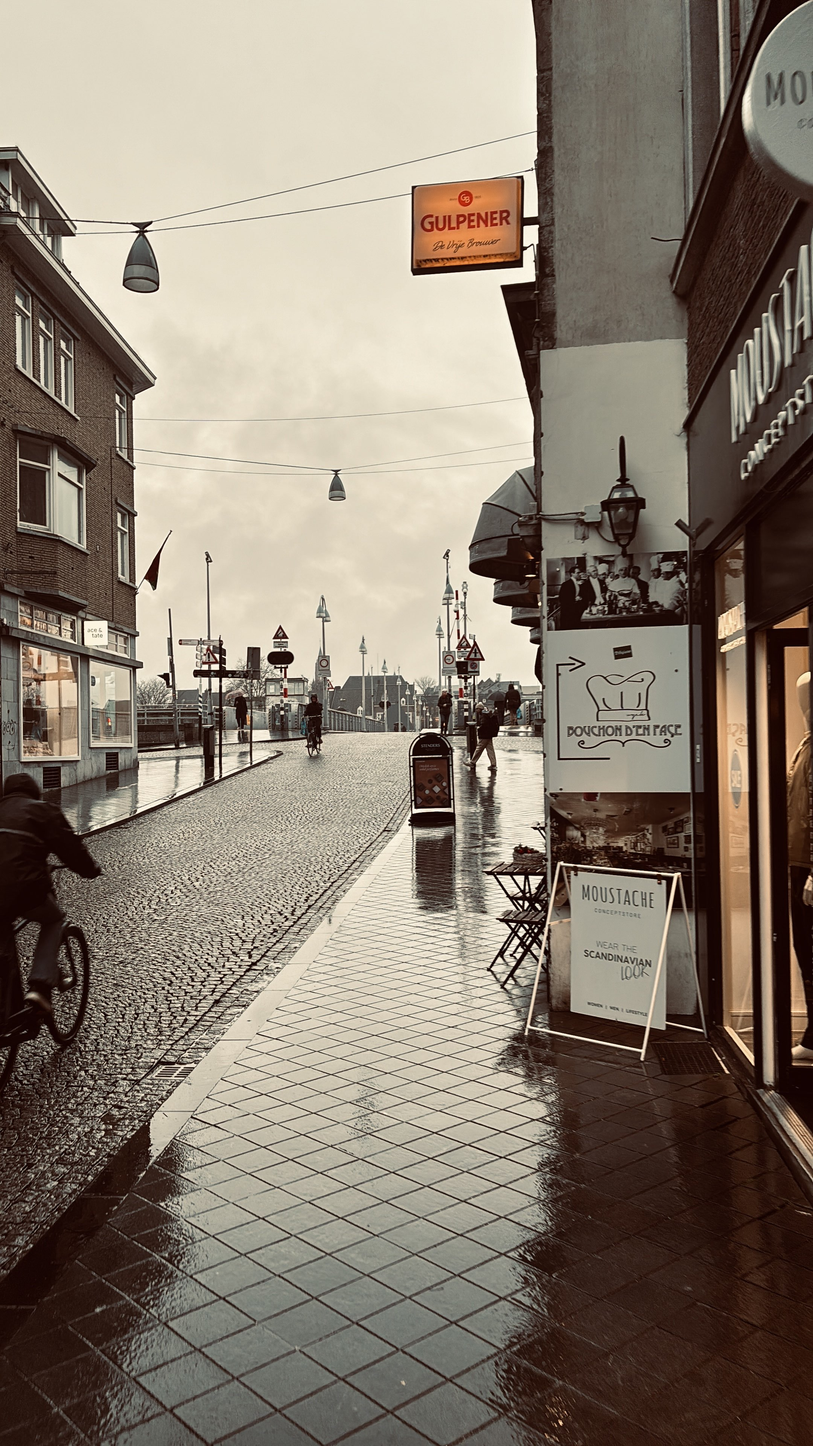
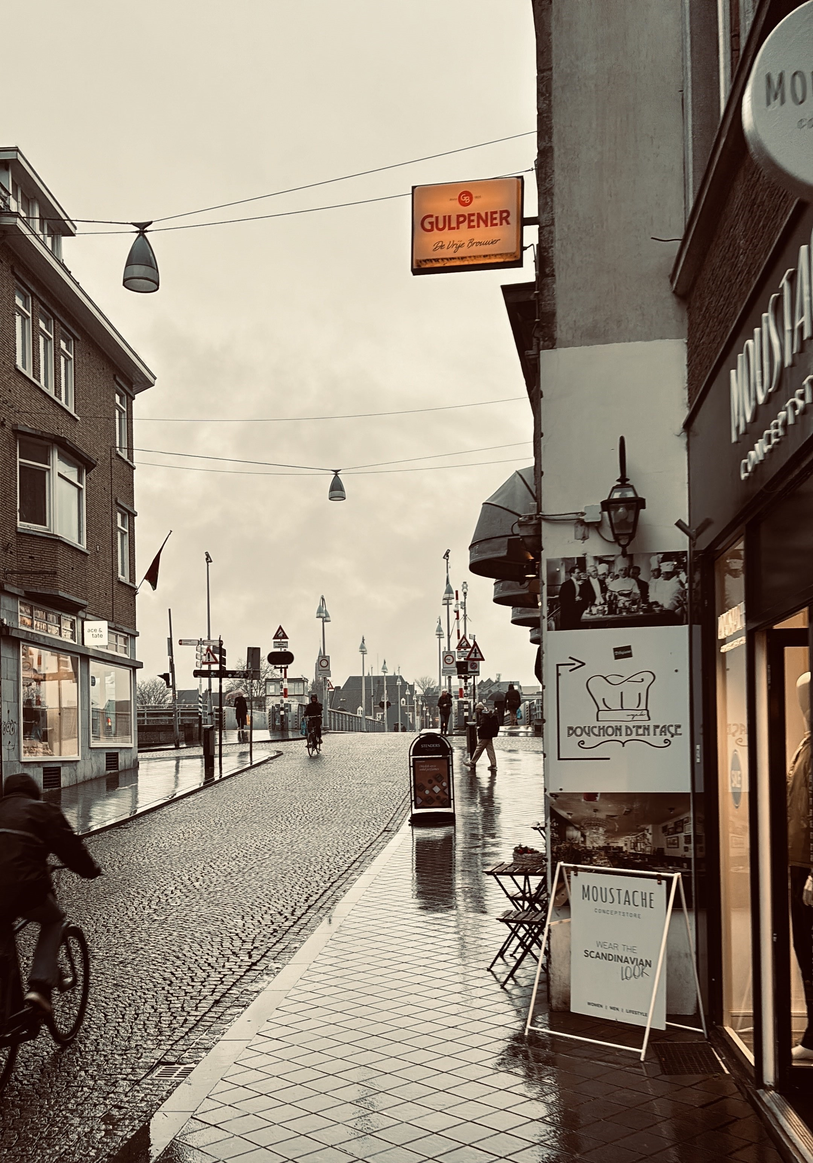
changed the sizes of the fxmls

diff --git a/src/main/java/bus/maapstrichtfinal/MapController.java b/src/main/java/bus/maapstrichtfinal/MapController.java
@@ -83,6 +83,16 @@ public class MapController {
     private ImageView themeBtnImg;
     @FXML
     private VBox map;
+    @FXML
+    private Label transportOptionTxt;
+    @FXML
+    private Label timeTxt;
+    @FXML
+    private Label zipCodesTxt;
+
+    // Empty if the user did not choose bus as the transportation method
+    @FXML
+    private Label busTxt;
 
     // Other variables for menu and panel animations, theme, and input validation
     private int invalidInputCount;

diff --git a/src/main/java/bus/maapstrichtfinal/FileInitializer.java b/src/main/java/bus/maapstrichtfinal/FileInitializer.java
@@ -15,7 +15,7 @@ public class FileInitializer {
     // Method to initialize the FXML file and set up the scene
     public void initializeFXML(Stage stage, String fileName) throws IOException{
         // Creating a new scene with the loaded FXML content
-        scene = new Scene(loadFXML(fileName), 1400, 900);
+        scene = new Scene(loadFXML(fileName), 1400, 783);
         stage.setScene(scene);
         stage.setTitle("MAAPSTRICHT");
         stage.setResizable(false);

diff --git a/src/main/java/bus/maapstrichtfinal/Main.java b/src/main/java/bus/maapstrichtfinal/Main.java
@@ -15,7 +15,7 @@ public class Main extends Application {
         Parent root = FXMLLoader.load(getClass().getResource("homepage.fxml"));
         stage.setTitle("MAAPSTRICHT");
         stage.setResizable(false);
-        stage.setScene(new Scene(root, 1400, 900));
+        stage.setScene(new Scene(root, 1400, 783));
         stage.show();
     }
 
